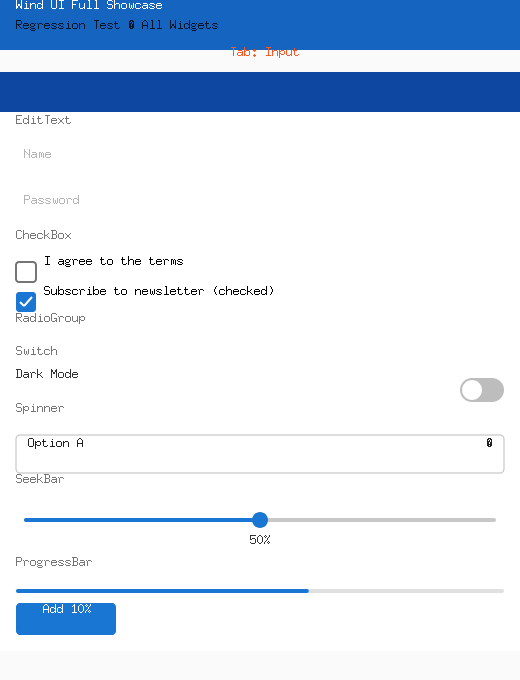
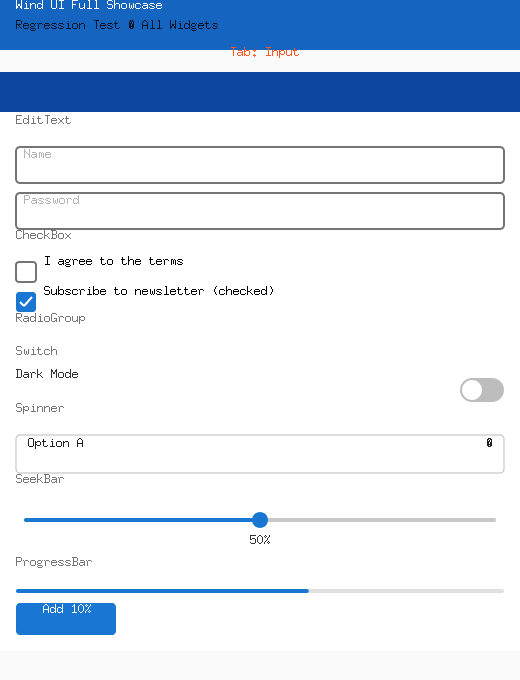
fix(edittext): make border visible by using GetStyle() instead of SetStyle()
fullshowcase was calling SetStyle() which replaces the entire style object,
overwriting BorderWidth/CornerRadius set by NewEditText. Changed to
GetStyle() field assignment to preserve defaults.

Also: draw border before inset background fill, default color #757575,
default BorderWidth 2, editInset 4px for native EDIT controls.

Changed region(s): [[0.9538, 0.2162, 0.9846, 0.3397], [0.0308, 0.2162, 0.0615, 0.3397]]

diff --git a/examples/fullshowcase/main.go b/examples/fullshowcase/main.go
@@ -505,18 +505,14 @@ func (a *showcasePagerAdapter) buildInputPage() core.View {
 	page.AddChild(sectionLabel("EditText"))
 	etName := widget.NewEditText("Name")
 	etName.SetId("et_name")
-	etName.Node().SetStyle(&core.Style{
-		Width:  dim(core.DimensionMatchParent),
-		Height: dimVal(36),
-	})
+	etName.Node().GetStyle().Width = dim(core.DimensionMatchParent)
+	etName.Node().GetStyle().Height = dimVal(36)
 	page.AddChild(etName.Node())
 
 	etPassword := widget.NewEditText("Password")
 	etPassword.SetId("et_password")
-	etPassword.Node().SetStyle(&core.Style{
-		Width:  dim(core.DimensionMatchParent),
-		Height: dimVal(36),
-	})
+	etPassword.Node().GetStyle().Width = dim(core.DimensionMatchParent)
+	etPassword.Node().GetStyle().Height = dimVal(36)
 	page.AddChild(etPassword.Node())
 
 	// -- CheckBox --

diff --git a/widget/edittext.go b/widget/edittext.go
@@ -94,7 +94,7 @@ func (p *editTextPainter) Paint(node *core.Node, canvas core.Canvas) {
 	if s.BorderWidth > 0 {
 		borderColor := s.BorderColor
 		if borderColor.A == 0 {
-			borderColor = color.RGBA{R: 158, G: 158, B: 158, A: 255} // #9E9E9E
+			borderColor = color.RGBA{R: 117, G: 117, B: 117, A: 255} // #757575
 		}
 		borderPaint := &core.Paint{
 			Color:       borderColor,
